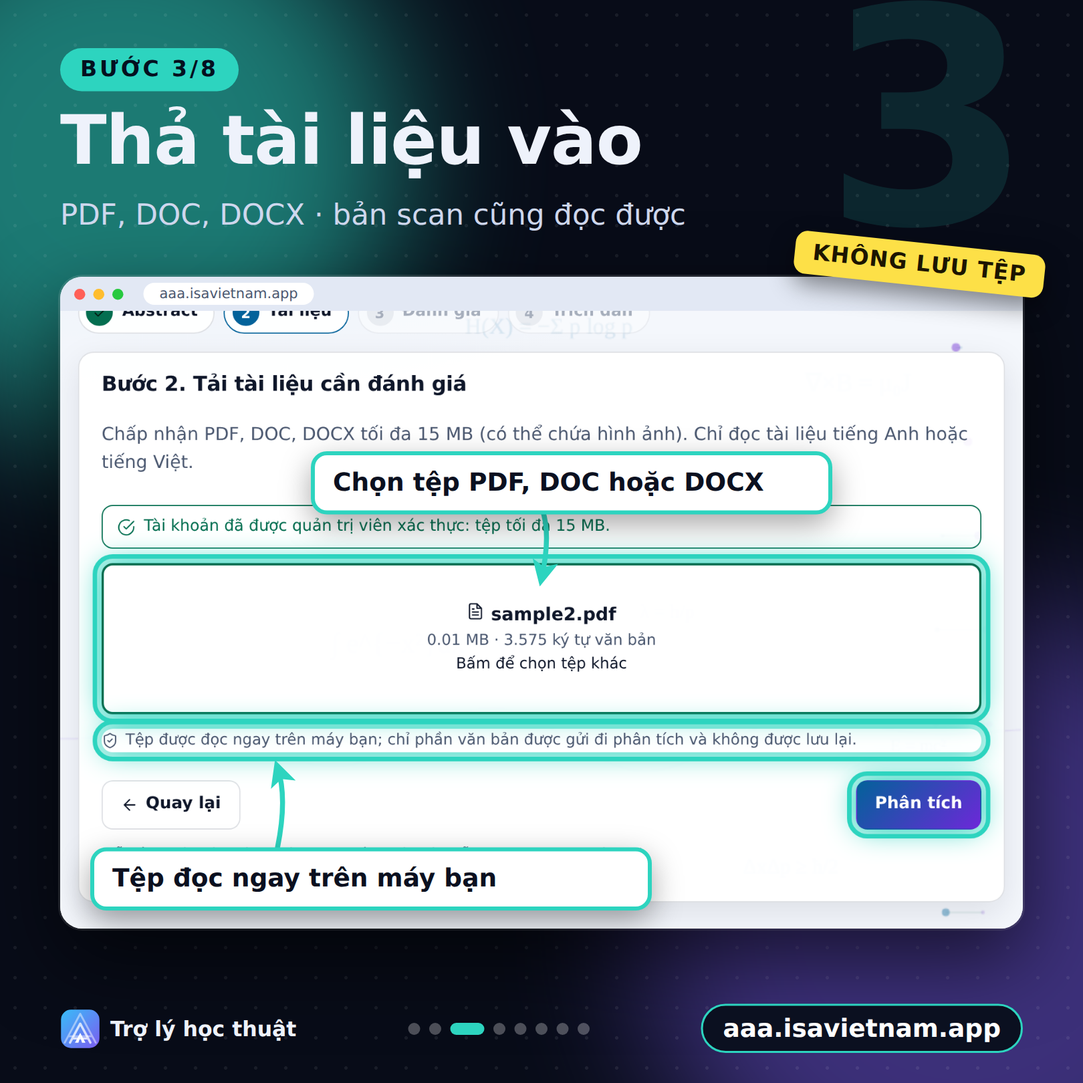
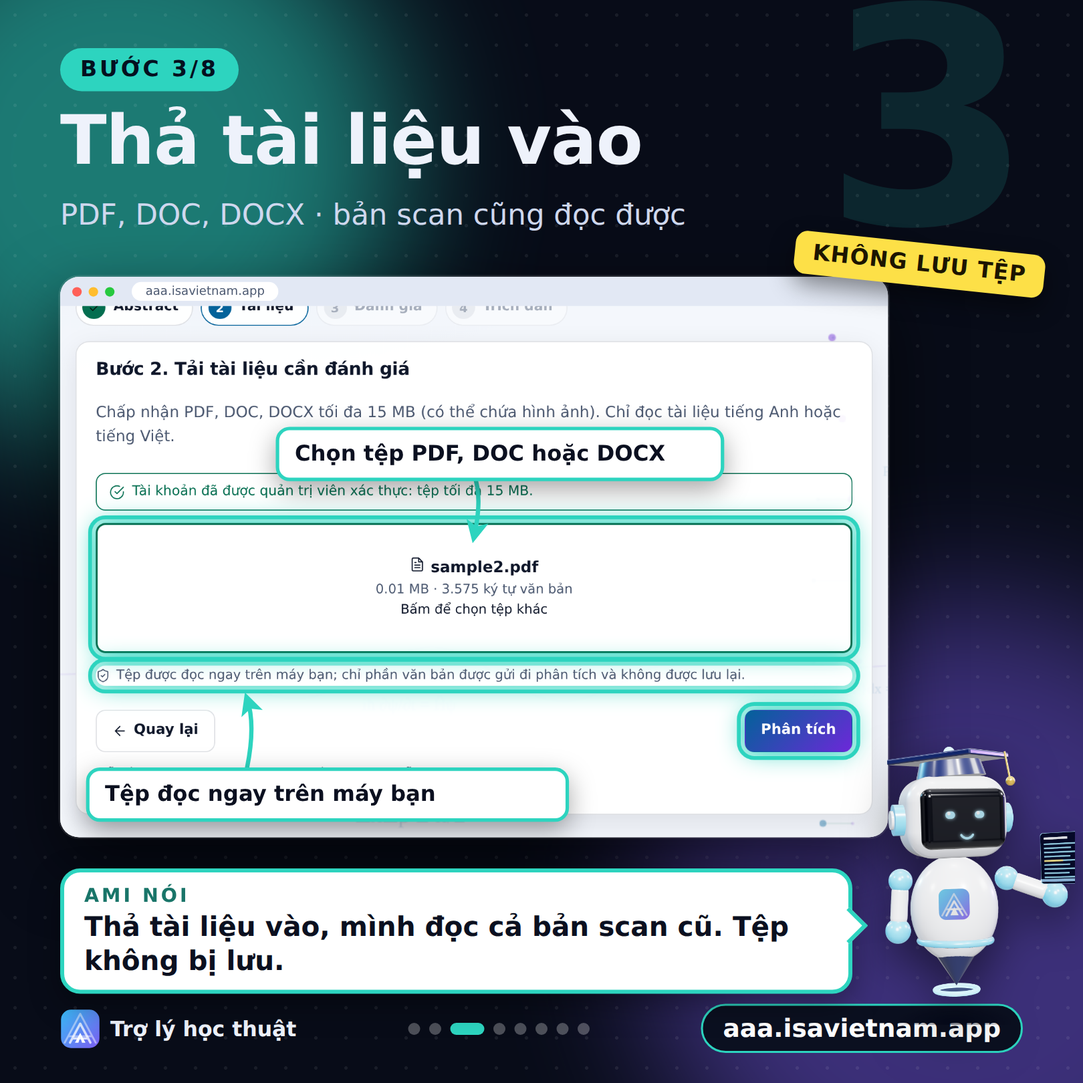
feat(marketing): thumbnail, poster và ảnh social lấy Ami làm nhân vật chính
Xuất Ami 3D nền trong suốt (marketing/ami), dựng lại og.png, poster 3:4,
ảnh bìa vuông và 8 ảnh bước có Ami giải thích; cập nhật nội dung đăng bài.

Claude-Session: https://claude.ai/code/session_018UGHGRMCUBmSM7gYWsNA2j

diff --git a/marketing/poster.html b/marketing/poster.html
@@ -1,25 +1,33 @@
 <!doctype html><meta charset=utf-8><style>*{box-sizing:border-box;margin:0}body{font-family:'DejaVu Sans','Segoe UI',Arial,sans-serif;color:#e8ecf8;background:#080c18}
 .grad{background:linear-gradient(90deg,#38bdf8,#8b7cf6);-webkit-background-clip:text;background-clip:text;color:transparent}
+.bub{position:absolute;background:#fff;color:#0b1020;font-weight:800;border-radius:22px;box-shadow:0 14px 36px rgba(0,0,0,.4);border:4px solid #38bdf8}
+.bub::after{content:"";position:absolute;width:22px;height:22px;background:#fff;border:4px solid #38bdf8;border-width:0 0 4px 4px;transform:rotate(45deg)}
+.halo{position:absolute;border-radius:50%;background:radial-gradient(closest-side,#38bdf855,#7c5cf033 62%,transparent)}
+.ami{position:absolute;display:block;filter:drop-shadow(0 24px 30px rgba(0,0,0,.45))}
+
 body{width:900px;height:1200px;position:relative;overflow:hidden;background:radial-gradient(900px 600px at 10% 0%,#1a2a5e,#0c1330 50%,#070b16)}
-.glow{position:absolute;right:-160px;top:380px;width:520px;height:520px;border-radius:50%;background:radial-gradient(#7c5cf055,transparent 70%)}
-.top{position:absolute;left:64px;right:64px;top:60px;display:flex;align-items:center;gap:20px}.top svg{width:84px;height:84px}
-.top small{font-size:19px;letter-spacing:.18em;color:#38bdf8;font-weight:700}
+.top{position:absolute;left:64px;right:64px;top:52px;display:flex;align-items:center;gap:18px}.top svg{width:64px;height:64px}
+.top small{font-size:18px;letter-spacing:.18em;color:#38bdf8;font-weight:700}
 .badge{margin-left:auto;font-size:18px;padding:8px 16px;border:1px solid #3b4c86;border-radius:99px;color:#cdd6f0}
-h1{position:absolute;left:64px;top:190px;width:772px;font-size:78px;line-height:1.08;font-weight:700}
-h2{position:absolute;left:64px;top:290px;font-size:44px;font-weight:700}
-.lead{position:absolute;left:64px;top:362px;width:772px;font-size:27px;line-height:1.45;color:#b4bedb}.lead i{display:block;color:#8392bb;font-size:22px;margin-top:8px}
-.cards{position:absolute;left:64px;right:64px;top:540px;display:grid;grid-template-columns:1fr 1fr;gap:16px}
-.card{display:flex;gap:14px;align-items:flex-start;padding:16px 18px;border:1px solid #27366a;border-radius:18px;background:linear-gradient(160deg,#121c40,#0e1630)}
-.card div{display:flex;flex-direction:column;gap:3px}.card b{font-size:21px;line-height:1.25}.card span{font-size:17px;color:#a9b4d0}.card i{font-size:15px;color:#7f8fb8;font-style:normal}
-.cta{position:absolute;left:64px;right:64px;bottom:152px;display:flex;align-items:center;gap:30px;padding:22px 28px;border-radius:24px;background:linear-gradient(100deg,#163d6e,#4a3cb8)}
-.qr{width:176px;height:176px;padding:12px;background:#fff;border-radius:16px;flex:none}.qr svg{width:100%;height:100%;display:block}
-.cta h3{font-size:32px;line-height:1.2;margin-bottom:8px}.cta p{font-size:20px;color:#d6defa;line-height:1.4}.cta b{display:inline-block;margin-top:14px;font-size:28px;color:#fff;padding:8px 18px;border-radius:12px;background:#0b1020}
-.eco{position:absolute;left:64px;right:64px;bottom:50px;border-top:1px solid #27366a;padding-top:20px;font-size:18px;color:#a9b4d0;line-height:1.7}
+.kick{position:absolute;left:420px;top:176px;font-size:20px;letter-spacing:.2em;font-weight:800;color:#fde047}
+h1{position:absolute;left:420px;top:212px;font-size:64px;line-height:1.08;font-weight:700}
+h2{position:absolute;left:420px;top:350px;font-size:30px;font-weight:700}
+.en{position:absolute;left:64px;right:64px;top:582px;text-align:center;font-size:21px;font-style:italic;color:#9fb0d6}
+.cards{position:absolute;left:64px;right:64px;top:630px;display:grid;grid-template-columns:1fr 1fr;gap:14px}
+.card{display:flex;gap:14px;align-items:flex-start;padding:12px 16px;border:1px solid #27366a;border-radius:18px;background:linear-gradient(160deg,#121c40,#0e1630)}
+.card div{display:flex;flex-direction:column;gap:2px}.card b{font-size:21px;line-height:1.25}.card span{font-size:17px;color:#a9b4d0}.card i{font-size:15px;color:#8d9cc4;font-style:normal}
+.cta{position:absolute;left:64px;right:64px;bottom:128px;display:flex;align-items:center;gap:28px;padding:18px 26px;border-radius:24px;background:linear-gradient(100deg,#163d6e,#4a3cb8)}
+.qr{width:168px;height:168px;padding:12px;background:#fff;border-radius:16px;flex:none}.qr svg{width:100%;height:100%;display:block}
+.cta h3{font-size:31px;line-height:1.2;margin-bottom:6px}.cta p{font-size:19px;color:#d6defa;line-height:1.4}.cta b{display:inline-block;margin-top:10px;font-size:27px;color:#fff;padding:7px 18px;border-radius:12px;background:#0b1020}
+.eco{position:absolute;left:64px;right:64px;bottom:40px;border-top:1px solid #27366a;padding-top:14px;font-size:17px;color:#a9b4d0;line-height:1.7}
 .eco b{color:#e8ecf8}.eco em{color:#38bdf8;font-style:normal}</style>
-<div class=glow></div>
+<div class=halo style="left:-20px;top:100px;width:470px;height:520px"></div>
 <div class=top><svg xmlns="http://www.w3.org/2000/svg" viewBox="0 0 48 48"><defs><linearGradient id="g" x1="0" y1="0" x2="1" y2="1"><stop offset="0" stop-color="#38bdf8"/><stop offset="1" stop-color="#7c5cf0"/></linearGradient></defs><rect x="1" y="1" width="46" height="46" rx="12" fill="url(#g)"/><path d="M5.5 40.5L24 6L42.5 40.5M9.57 32.91L38.43 32.91" fill="none" stroke="#fff" stroke-opacity="0.45" stroke-width="2.3" stroke-linecap="round" stroke-linejoin="round"/><path d="M11.79 40.5L24 17.73L36.21 40.5M14.48 35.49L33.52 35.49" fill="none" stroke="#fff" stroke-opacity="0.75" stroke-width="2.7" stroke-linecap="round" stroke-linejoin="round"/><path fill-rule="evenodd" fill="#fff" d="M17.71 40.5L24 28.77L30.29 40.5ZM21.86 40.5L24 33.7L26.14 40.5Z"/></svg><div><small>VIỆT / ENGLISH</small></div><span class=badge>Miễn phí 1 lượt/ngày · 1 free run/day</span></div>
-<h1>Trợ lý học thuật</h1><h2 class=grad>AI Academic Agent 1.0</h2>
-<p class=lead>Trợ lý học thuật AI đầu tiên tại Việt Nam giúp đọc tài liệu, đánh giá mức độ phù hợp và trích dẫn theo chuẩn nghiên cứu quốc tế.<i>Read, score and cite scholarly sources to international standards.</i></p>
+<img class=ami src="ami/ami-wave.png" style="left:20px;top:112px;width:384px;height:480px">
+<div class=kick>GẶP AMI · MEET AMI</div>
+<h1>Trợ lý<br>học thuật</h1><h2 class=grad>AI Academic Agent 1.0</h2>
+<div class=bub style="left:424px;top:412px;width:412px;padding:14px 18px;font-size:23px;line-height:1.3">Chào bạn! Mình là <span style="color:#1e6fa8">Ami</span>. Mình đọc tài liệu, chấm điểm và trích dẫn thật chuẩn giúp bạn.<style>.bub::after{left:-15px;top:62px;transform:rotate(45deg)}</style></div>
+<div class=en>Hi, I'm Ami! I read, score and cite scholarly sources for you.</div>
 <div class=cards><div class=card><svg viewBox="0 0 24 24" width="38" height="38" fill="none" stroke="#38bdf8" stroke-width="1.8" stroke-linecap="round" stroke-linejoin="round"><path d="M14 2H6a2 2 0 0 0-2 2v16a2 2 0 0 0 2 2h12a2 2 0 0 0 2-2V8z M14 2v6h6 M16 13H8 M16 17H8 M10 9H8"/></svg><div><b>Đọc PDF · DOC · DOCX</b><span>Cả bản scan nhờ OCR</span><i>Reads PDF, DOC, DOCX and scans</i></div></div><div class=card><svg viewBox="0 0 24 24" width="38" height="38" fill="none" stroke="#38bdf8" stroke-width="1.8" stroke-linecap="round" stroke-linejoin="round"><path d="M12 3a9 9 0 1 0 9 9 M12 12l5-5"/></svg><div><b>Chấm điểm 0–100</b><span>Với tóm tắt đề tài của bạn</span><i>Fit score against your abstract</i></div></div><div class=card><svg viewBox="0 0 24 24" width="38" height="38" fill="none" stroke="#38bdf8" stroke-width="1.8" stroke-linecap="round" stroke-linejoin="round"><path d="M3 21c3 0 7-1 7-8V5c0-1-1-2-2-2H4c-1 0-2 1-2 2v6c0 1 1 2 2 2h4c0 4-1 5-5 5z M15 21c3 0 7-1 7-8V5c0-1-1-2-2-2h-4c-1 0-2 1-2 2v6c0 1 1 2 2 2h4c0 4-1 5-5 5z"/></svg><div><b>Gợi ý đoạn đáng trích</b><span>Kèm trích dẫn đúng chuẩn</span><i>Citable passages, ready to cite</i></div></div><div class=card><svg viewBox="0 0 24 24" width="38" height="38" fill="none" stroke="#38bdf8" stroke-width="1.8" stroke-linecap="round" stroke-linejoin="round"><path d="M12 3a9 9 0 1 0 0 18 9 9 0 0 0 0-18z M3 12h18 M12 3c3 3 3 15 0 18 M12 3c-3 3-3 15 0 18"/></svg><div><b>10.000+ kiểu trích dẫn</b><span>APA · Harvard · IEEE · CSL</span><i>10,000+ citation styles</i></div></div></div>
 <div class=cta><div class=qr><svg xmlns="http://www.w3.org/2000/svg" viewBox="0 0 29 29" shape-rendering="crispEdges"><path d="M0 0h1v1h-1zM1 0h1v1h-1zM2 0h1v1h-1zM3 0h1v1h-1zM4 0h1v1h-1zM5 0h1v1h-1zM6 0h1v1h-1zM9 0h1v1h-1zM10 0h1v1h-1zM11 0h1v1h-1zM12 0h1v1h-1zM15 0h1v1h-1zM16 0h1v1h-1zM17 0h1v1h-1zM18 0h1v1h-1zM19 0h1v1h-1zM22 0h1v1h-1zM23 0h1v1h-1zM24 0h1v1h-1zM25 0h1v1h-1zM26 0h1v1h-1zM27 0h1v1h-1zM28 0h1v1h-1zM0 1h1v1h-1zM6 1h1v1h-1zM9 1h1v1h-1zM10 1h1v1h-1zM11 1h1v1h-1zM17 1h1v1h-1zM20 1h1v1h-1zM22 1h1v1h-1zM28 1h1v1h-1zM0 2h1v1h-1zM2 2h1v1h-1zM3 2h1v1h-1zM4 2h1v1h-1zM6 2h1v1h-1zM8 2h1v1h-1zM14 2h1v1h-1zM16 2h1v1h-1zM18 2h1v1h-1zM20 2h1v1h-1zM22 2h1v1h-1zM24 2h1v1h-1zM25 2h1v1h-1zM26 2h1v1h-1zM28 2h1v1h-1zM0 3h1v1h-1zM2 3h1v1h-1zM3 3h1v1h-1zM4 3h1v1h-1zM6 3h1v1h-1zM8 3h1v1h-1zM9 3h1v1h-1zM10 3h1v1h-1zM12 3h1v1h-1zM16 3h1v1h-1zM17 3h1v1h-1zM19 3h1v1h-1zM22 3h1v1h-1zM24 3h1v1h-1zM25 3h1v1h-1zM26 3h1v1h-1zM28 3h1v1h-1zM0 4h1v1h-1zM2 4h1v1h-1zM3 4h1v1h-1zM4 4h1v1h-1zM6 4h1v1h-1zM8 4h1v1h-1zM9 4h1v1h-1zM13 4h1v1h-1zM14 4h1v1h-1zM15 4h1v1h-1zM18 4h1v1h-1zM19 4h1v1h-1zM20 4h1v1h-1zM22 4h1v1h-1zM24 4h1v1h-1zM25 4h1v1h-1zM26 4h1v1h-1zM28 4h1v1h-1zM0 5h1v1h-1zM6 5h1v1h-1zM8 5h1v1h-1zM10 5h1v1h-1zM11 5h1v1h-1zM13 5h1v1h-1zM14 5h1v1h-1zM15 5h1v1h-1zM16 5h1v1h-1zM18 5h1v1h-1zM20 5h1v1h-1zM22 5h1v1h-1zM28 5h1v1h-1zM0 6h1v1h-1zM1 6h1v1h-1zM2 6h1v1h-1zM3 6h1v1h-1zM4 6h1v1h-1zM5 6h1v1h-1zM6 6h1v1h-1zM8 6h1v1h-1zM10 6h1v1h-1zM12 6h1v1h-1zM14 6h1v1h-1zM16 6h1v1h-1zM18 6h1v1h-1zM20 6h1v1h-1zM22 6h1v1h-1zM23 6h1v1h-1zM24 6h1v1h-1zM25 6h1v1h-1zM26 6h1v1h-1zM27 6h1v1h-1zM28 6h1v1h-1zM8 7h1v1h-1zM11 7h1v1h-1zM13 7h1v1h-1zM15 7h1v1h-1zM0 8h1v1h-1zM2 8h1v1h-1zM3 8h1v1h-1zM4 8h1v1h-1zM5 8h1v1h-1zM6 8h1v1h-1zM9 8h1v1h-1zM14 8h1v1h-1zM15 8h1v1h-1zM17 8h1v1h-1zM22 8h1v1h-1zM23 8h1v1h-1zM24 8h1v1h-1zM25 8h1v1h-1zM26 8h1v1h-1zM7 9h1v1h-1zM8 9h1v1h-1zM9 9h1v1h-1zM10 9h1v1h-1zM15 9h1v1h-1zM16 9h1v1h-1zM19 9h1v1h-1zM20 9h1v1h-1zM21 9h1v1h-1zM22 9h1v1h-1zM23 9h1v1h-1zM24 9h1v1h-1zM28 9h1v1h-1zM0 10h1v1h-1zM1 10h1v1h-1zM2 10h1v1h-1zM3 10h1v1h-1zM4 10h1v1h-1zM6 10h1v1h-1zM18 10h1v1h-1zM21 10h1v1h-1zM22 10h1v1h-1zM1 11h1v1h-1zM3 11h1v1h-1zM4 11h1v1h-1zM9 11h1v1h-1zM14 11h1v1h-1zM16 11h1v1h-1zM18 11h1v1h-1zM19 11h1v1h-1zM20 11h1v1h-1zM23 11h1v1h-1zM25 11h1v1h-1zM27 11h1v1h-1zM0 12h1v1h-1zM1 12h1v1h-1zM3 12h1v1h-1zM5 12h1v1h-1zM6 12h1v1h-1zM8 12h1v1h-1zM12 12h1v1h-1zM16 12h1v1h-1zM17 12h1v1h-1zM19 12h1v1h-1zM25 12h1v1h-1zM26 12h1v1h-1zM0 13h1v1h-1zM2 13h1v1h-1zM3 13h1v1h-1zM5 13h1v1h-1zM7 13h1v1h-1zM8 13h1v1h-1zM10 13h1v1h-1zM11 13h1v1h-1zM12 13h1v1h-1zM13 13h1v1h-1zM14 13h1v1h-1zM15 13h1v1h-1zM19 13h1v1h-1zM20 13h1v1h-1zM22 13h1v1h-1zM24 13h1v1h-1zM28 13h1v1h-1zM0 14h1v1h-1zM3 14h1v1h-1zM6 14h1v1h-1zM7 14h1v1h-1zM8 14h1v1h-1zM12 14h1v1h-1zM13 14h1v1h-1zM14 14h1v1h-1zM15 14h1v1h-1zM16 14h1v1h-1zM18 14h1v1h-1zM21 14h1v1h-1zM23 14h1v1h-1zM24 14h1v1h-1zM25 14h1v1h-1zM26 14h1v1h-1zM1 15h1v1h-1zM2 15h1v1h-1zM4 15h1v1h-1zM5 15h1v1h-1zM10 15h1v1h-1zM13 15h1v1h-1zM15 15h1v1h-1zM18 15h1v1h-1zM20 15h1v1h-1zM22 15h1v1h-1zM24 15h1v1h-1zM27 15h1v1h-1zM1 16h1v1h-1zM5 16h1v1h-1zM6 16h1v1h-1zM11 16h1v1h-1zM14 16h1v1h-1zM15 16h1v1h-1zM17 16h1v1h-1zM18 16h1v1h-1zM20 16h1v1h-1zM25 16h1v1h-1zM26 16h1v1h-1zM0 17h1v1h-1zM1 17h1v1h-1zM3 17h1v1h-1zM5 17h1v1h-1zM8 17h1v1h-1zM11 17h1v1h-1zM15 17h1v1h-1zM16 17h1v1h-1zM17 17h1v1h-1zM18 17h1v1h-1zM19 17h1v1h-1zM20 17h1v1h-1zM21 17h1v1h-1zM22 17h1v1h-1zM23 17h1v1h-1zM24 17h1v1h-1zM26 17h1v1h-1zM28 17h1v1h-1zM0 18h1v1h-1zM2 18h1v1h-1zM3 18h1v1h-1zM6 18h1v1h-1zM7 18h1v1h-1zM8 18h1v1h-1zM9 18h1v1h-1zM11 18h1v1h-1zM17 18h1v1h-1zM20 18h1v1h-1zM21 18h1v1h-1zM23 18h1v1h-1zM24 18h1v1h-1zM26 18h1v1h-1zM0 19h1v1h-1zM2 19h1v1h-1zM4 19h1v1h-1zM5 19h1v1h-1zM8 19h1v1h-1zM9 19h1v1h-1zM10 19h1v1h-1zM11 19h1v1h-1zM12 19h1v1h-1zM14 19h1v1h-1zM16 19h1v1h-1zM20 19h1v1h-1zM24 19h1v1h-1zM27 19h1v1h-1zM0 20h1v1h-1zM2 20h1v1h-1zM4 20h1v1h-1zM5 20h1v1h-1zM6 20h1v1h-1zM7 20h1v1h-1zM9 20h1v1h-1zM16 20h1v1h-1zM18 20h1v1h-1zM20 20h1v1h-1zM21 20h1v1h-1zM22 20h1v1h-1zM23 20h1v1h-1zM24 20h1v1h-1zM26 20h1v1h-1zM27 20h1v1h-1zM28 20h1v1h-1zM8 21h1v1h-1zM10 21h1v1h-1zM11 21h1v1h-1zM13 21h1v1h-1zM14 21h1v1h-1zM15 21h1v1h-1zM17 21h1v1h-1zM18 21h1v1h-1zM20 21h1v1h-1zM24 21h1v1h-1zM25 21h1v1h-1zM26 21h1v1h-1zM27 21h1v1h-1zM28 21h1v1h-1zM0 22h1v1h-1zM1 22h1v1h-1zM2 22h1v1h-1zM3 22h1v1h-1zM4 22h1v1h-1zM5 22h1v1h-1zM6 22h1v1h-1zM11 22h1v1h-1zM12 22h1v1h-1zM13 22h1v1h-1zM14 22h1v1h-1zM15 22h1v1h-1zM16 22h1v1h-1zM17 22h1v1h-1zM19 22h1v1h-1zM20 22h1v1h-1zM22 22h1v1h-1zM24 22h1v1h-1zM25 22h1v1h-1zM26 22h1v1h-1zM0 23h1v1h-1zM6 23h1v1h-1zM8 23h1v1h-1zM9 23h1v1h-1zM10 23h1v1h-1zM13 23h1v1h-1zM15 23h1v1h-1zM17 23h1v1h-1zM18 23h1v1h-1zM19 23h1v1h-1zM20 23h1v1h-1zM24 23h1v1h-1zM28 23h1v1h-1zM0 24h1v1h-1zM2 24h1v1h-1zM3 24h1v1h-1zM4 24h1v1h-1zM6 24h1v1h-1zM8 24h1v1h-1zM10 24h1v1h-1zM14 24h1v1h-1zM15 24h1v1h-1zM20 24h1v1h-1zM21 24h1v1h-1zM22 24h1v1h-1zM23 24h1v1h-1zM24 24h1v1h-1zM26 24h1v1h-1zM27 24h1v1h-1zM28 24h1v1h-1zM0 25h1v1h-1zM2 25h1v1h-1zM3 25h1v1h-1zM4 25h1v1h-1zM6 25h1v1h-1zM8 25h1v1h-1zM10 25h1v1h-1zM11 25h1v1h-1zM13 25h1v1h-1zM15 25h1v1h-1zM16 25h1v1h-1zM18 25h1v1h-1zM19 25h1v1h-1zM25 25h1v1h-1zM26 25h1v1h-1zM0 26h1v1h-1zM2 26h1v1h-1zM3 26h1v1h-1zM4 26h1v1h-1zM6 26h1v1h-1zM8 26h1v1h-1zM9 26h1v1h-1zM10 26h1v1h-1zM12 26h1v1h-1zM18 26h1v1h-1zM20 26h1v1h-1zM22 26h1v1h-1zM23 26h1v1h-1zM24 26h1v1h-1zM25 26h1v1h-1zM26 26h1v1h-1zM27 26h1v1h-1zM0 27h1v1h-1zM6 27h1v1h-1zM10 27h1v1h-1zM13 27h1v1h-1zM14 27h1v1h-1zM16 27h1v1h-1zM20 27h1v1h-1zM23 27h1v1h-1zM24 27h1v1h-1zM25 27h1v1h-1zM27 27h1v1h-1zM0 28h1v1h-1zM1 28h1v1h-1zM2 28h1v1h-1zM3 28h1v1h-1zM4 28h1v1h-1zM5 28h1v1h-1zM6 28h1v1h-1zM8 28h1v1h-1zM9 28h1v1h-1zM11 28h1v1h-1zM14 28h1v1h-1zM16 28h1v1h-1zM18 28h1v1h-1zM19 28h1v1h-1zM21 28h1v1h-1zM22 28h1v1h-1zM24 28h1v1h-1zM26 28h1v1h-1z" fill="#0b1020"/></svg></div><div><h3>Quét mã để dùng ngay<br><span class=grad>Scan to try it</span></h3><p>Tài liệu của bạn không bị lưu trữ.<br>Your documents are never stored.</p><b>aaa.isavietnam.app</b></div></div>
 <div class=eco><b>Hệ sinh thái ISA Vietnam · Ecosystem:</b><br><em>EduFind</em> edufind.isavn.edu.vn &nbsp;·&nbsp; <em>Trợ lý văn thư</em> trolyvanthu.isavn.edu.vn</div>

diff --git a/marketing/social-cover.html b/marketing/social-cover.html
@@ -1,0 +1,29 @@
+<!doctype html><meta charset=utf-8><style>*{box-sizing:border-box;margin:0}
+body{width:1080px;height:1080px;position:relative;overflow:hidden;font-family:'DejaVu Sans','Segoe UI',Arial,sans-serif;color:#eef2fb;background:#080c18}
+.blob{position:absolute;border-radius:50%;filter:blur(80px)}.dots{position:absolute;inset:0;background-image:radial-gradient(rgba(255,255,255,.07) 1.5px,transparent 1.5px);background-size:30px 30px}
+.pill{position:absolute;left:50%;transform:translateX(-50%);top:36px;white-space:nowrap;font-weight:800;font-size:20px;letter-spacing:.12em;padding:8px 22px;border-radius:99px;color:#7dd3fc;border:2px solid #38bdf8;background:#0b1a38}
+.ring{position:absolute;left:50%;border-radius:50%;border:1.5px solid rgba(125,211,252,.22);transform:translate(-50%,-50%)}
+.ami{position:absolute;left:50%;top:86px;width:352px;height:440px;margin-left:-176px;filter:drop-shadow(0 26px 34px rgba(0,0,0,.5))}
+.bub{position:absolute;background:#fff;color:#0b1020;font-weight:800;border-radius:22px;border:4px solid #38bdf8;box-shadow:0 14px 36px rgba(0,0,0,.4);font-size:27px;line-height:1.25;padding:14px 20px}
+.bub::after{content:"";position:absolute;width:22px;height:22px;background:#fff;border:4px solid #38bdf8}
+.chip{position:absolute;font-weight:800;font-size:22px;padding:9px 18px;border-radius:99px;background:#0e1a3d;border:2px solid #2b3a66;color:#cdd6f0}
+.sticker{position:absolute;right:46px;top:112px;transform:rotate(7deg);background:#fde047;color:#1c1500;font-weight:900;font-size:25px;line-height:1.2;padding:11px 20px;border-radius:14px;box-shadow:0 10px 24px rgba(0,0,0,.45);text-align:center}
+h1{position:absolute;left:0;right:0;top:528px;text-align:center;font-size:80px;line-height:1.05;font-weight:800;letter-spacing:-.01em}
+h2{position:absolute;left:0;right:0;top:620px;text-align:center;font-size:42px;font-weight:800;background:linear-gradient(90deg,#38bdf8,#8b7cf6);-webkit-background-clip:text;background-clip:text;color:transparent}
+.tag{position:absolute;left:60px;right:60px;top:684px;text-align:center;font-size:25px;line-height:1.35;color:#cfd8ee}
+.chips{position:absolute;left:0;right:0;top:760px;display:flex;justify-content:center;gap:12px}.chips span{font-weight:800;font-size:20px;padding:8px 16px;border-radius:99px;background:#101a38;border:1px solid #2b3a66;color:#dbe4fb}
+.card{position:absolute;left:44px;right:44px;bottom:34px;height:220px;border-radius:24px;background:#10193a;border:1.5px solid #2a3a73;display:flex;align-items:center;padding:0 26px;gap:22px}
+.card img{width:128px;height:128px;border-radius:50%;border:5px solid #38bdf8;object-fit:cover;flex:none}
+.card .t{flex:1}.card small{font-weight:800;letter-spacing:.16em;color:#7dd3fc;font-size:16px}.card b{display:block;font-size:34px;line-height:1.15;margin:2px 0 6px}.card p{font-size:17px;line-height:1.35;color:#c3cde6}.card em{display:block;margin-top:6px;font-style:normal;font-weight:800;font-size:16px;color:#7dd3fc}
+.qr{text-align:center;flex:none;width:220px}.qr div{width:132px;height:132px;margin:0 auto;padding:8px;background:#fff;border-radius:14px;box-shadow:0 0 0 4px #38bdf8}.qr svg{width:100%;height:100%;display:block}.qr span{display:block;margin-top:9px;font-weight:800;font-size:16px;white-space:nowrap;color:#7dd3fc}</style>
+<div class=blob style="left:-180px;top:-140px;width:620px;height:620px;background:#1d6fa8;opacity:.55"></div><div class=blob style="right:-220px;bottom:-120px;width:700px;height:700px;background:#6d4cf0;opacity:.45"></div><div class=dots></div>
+<div class=ring style="top:300px;width:520px;height:520px"></div><div class=ring style="top:300px;width:760px;height:760px"></div><div class=ring style="top:300px;width:1000px;height:1000px"></div>
+<div class=pill>DÀNH CHO NHÀ NGHIÊN CỨU · GIẢNG VIÊN · NGHIÊN CỨU SINH</div>
+<img class=ami src="ami/ami-celebrate.png">
+<div class=bub style="left:48px;top:150px;width:310px">Chào bạn! Mình là <span style="color:#1e6fa8">Ami</span>, trợ lý học thuật của bạn.<style>.bub::after{right:-14px;top:60px;border-width:4px 4px 0 0;transform:rotate(45deg)}</style></div>
+<div class=chip style="left:60px;top:362px">APA</div><div class=chip style="left:150px;top:420px">DOI</div><div class=chip style="right:70px;top:392px">0–100</div><div class=chip style="right:150px;top:450px">“ ”</div>
+<div class=sticker>MIỄN PHÍ<br>1 lượt/ngày</div>
+<h1>Trợ lý học thuật</h1><h2>AI Academic Agent 1.0</h2>
+<div class=tag>Ami đọc tài liệu, chấm điểm phù hợp với đề tài, chọn đoạn đáng trích và tạo trích dẫn chuẩn quốc tế.</div>
+<div class=chips><span>Điểm phù hợp 0–100</span><span>Đoạn trích có số trang</span><span>APA · Harvard · IEEE</span></div>
+<div class=card><img src="../public/author.jpg"><div class=t><small>TÁC GIẢ</small><b>Lương Việt Hoàng</b><p>Phó Viện trưởng, Viện Khoa học Giáo dục và Kinh tế Đông Nam Á (ISA Vietnam)</p><em>ORCID 0009-0000-5248-6186</em></div><div class=qr><div><svg xmlns="http://www.w3.org/2000/svg" viewBox="0 0 29 29" shape-rendering="crispEdges"><path d="M0 0h1v1h-1zM1 0h1v1h-1zM2 0h1v1h-1zM3 0h1v1h-1zM4 0h1v1h-1zM5 0h1v1h-1zM6 0h1v1h-1zM9 0h1v1h-1zM10 0h1v1h-1zM11 0h1v1h-1zM12 0h1v1h-1zM15 0h1v1h-1zM16 0h1v1h-1zM17 0h1v1h-1zM18 0h1v1h-1zM19 0h1v1h-1zM22 0h1v1h-1zM23 0h1v1h-1zM24 0h1v1h-1zM25 0h1v1h-1zM26 0h1v1h-1zM27 0h1v1h-1zM28 0h1v1h-1zM0 1h1v1h-1zM6 1h1v1h-1zM9 1h1v1h-1zM10 1h1v1h-1zM11 1h1v1h-1zM17 1h1v1h-1zM20 1h1v1h-1zM22 1h1v1h-1zM28 1h1v1h-1zM0 2h1v1h-1zM2 2h1v1h-1zM3 2h1v1h-1zM4 2h1v1h-1zM6 2h1v1h-1zM8 2h1v1h-1zM14 2h1v1h-1zM16 2h1v1h-1zM18 2h1v1h-1zM20 2h1v1h-1zM22 2h1v1h-1zM24 2h1v1h-1zM25 2h1v1h-1zM26 2h1v1h-1zM28 2h1v1h-1zM0 3h1v1h-1zM2 3h1v1h-1zM3 3h1v1h-1zM4 3h1v1h-1zM6 3h1v1h-1zM8 3h1v1h-1zM9 3h1v1h-1zM10 3h1v1h-1zM12 3h1v1h-1zM16 3h1v1h-1zM17 3h1v1h-1zM19 3h1v1h-1zM22 3h1v1h-1zM24 3h1v1h-1zM25 3h1v1h-1zM26 3h1v1h-1zM28 3h1v1h-1zM0 4h1v1h-1zM2 4h1v1h-1zM3 4h1v1h-1zM4 4h1v1h-1zM6 4h1v1h-1zM8 4h1v1h-1zM9 4h1v1h-1zM13 4h1v1h-1zM14 4h1v1h-1zM15 4h1v1h-1zM18 4h1v1h-1zM19 4h1v1h-1zM20 4h1v1h-1zM22 4h1v1h-1zM24 4h1v1h-1zM25 4h1v1h-1zM26 4h1v1h-1zM28 4h1v1h-1zM0 5h1v1h-1zM6 5h1v1h-1zM8 5h1v1h-1zM10 5h1v1h-1zM11 5h1v1h-1zM13 5h1v1h-1zM14 5h1v1h-1zM15 5h1v1h-1zM16 5h1v1h-1zM18 5h1v1h-1zM20 5h1v1h-1zM22 5h1v1h-1zM28 5h1v1h-1zM0 6h1v1h-1zM1 6h1v1h-1zM2 6h1v1h-1zM3 6h1v1h-1zM4 6h1v1h-1zM5 6h1v1h-1zM6 6h1v1h-1zM8 6h1v1h-1zM10 6h1v1h-1zM12 6h1v1h-1zM14 6h1v1h-1zM16 6h1v1h-1zM18 6h1v1h-1zM20 6h1v1h-1zM22 6h1v1h-1zM23 6h1v1h-1zM24 6h1v1h-1zM25 6h1v1h-1zM26 6h1v1h-1zM27 6h1v1h-1zM28 6h1v1h-1zM8 7h1v1h-1zM11 7h1v1h-1zM13 7h1v1h-1zM15 7h1v1h-1zM0 8h1v1h-1zM2 8h1v1h-1zM3 8h1v1h-1zM4 8h1v1h-1zM5 8h1v1h-1zM6 8h1v1h-1zM9 8h1v1h-1zM14 8h1v1h-1zM15 8h1v1h-1zM17 8h1v1h-1zM22 8h1v1h-1zM23 8h1v1h-1zM24 8h1v1h-1zM25 8h1v1h-1zM26 8h1v1h-1zM7 9h1v1h-1zM8 9h1v1h-1zM9 9h1v1h-1zM10 9h1v1h-1zM15 9h1v1h-1zM16 9h1v1h-1zM19 9h1v1h-1zM20 9h1v1h-1zM21 9h1v1h-1zM22 9h1v1h-1zM23 9h1v1h-1zM24 9h1v1h-1zM28 9h1v1h-1zM0 10h1v1h-1zM1 10h1v1h-1zM2 10h1v1h-1zM3 10h1v1h-1zM4 10h1v1h-1zM6 10h1v1h-1zM18 10h1v1h-1zM21 10h1v1h-1zM22 10h1v1h-1zM1 11h1v1h-1zM3 11h1v1h-1zM4 11h1v1h-1zM9 11h1v1h-1zM14 11h1v1h-1zM16 11h1v1h-1zM18 11h1v1h-1zM19 11h1v1h-1zM20 11h1v1h-1zM23 11h1v1h-1zM25 11h1v1h-1zM27 11h1v1h-1zM0 12h1v1h-1zM1 12h1v1h-1zM3 12h1v1h-1zM5 12h1v1h-1zM6 12h1v1h-1zM8 12h1v1h-1zM12 12h1v1h-1zM16 12h1v1h-1zM17 12h1v1h-1zM19 12h1v1h-1zM25 12h1v1h-1zM26 12h1v1h-1zM0 13h1v1h-1zM2 13h1v1h-1zM3 13h1v1h-1zM5 13h1v1h-1zM7 13h1v1h-1zM8 13h1v1h-1zM10 13h1v1h-1zM11 13h1v1h-1zM12 13h1v1h-1zM13 13h1v1h-1zM14 13h1v1h-1zM15 13h1v1h-1zM19 13h1v1h-1zM20 13h1v1h-1zM22 13h1v1h-1zM24 13h1v1h-1zM28 13h1v1h-1zM0 14h1v1h-1zM3 14h1v1h-1zM6 14h1v1h-1zM7 14h1v1h-1zM8 14h1v1h-1zM12 14h1v1h-1zM13 14h1v1h-1zM14 14h1v1h-1zM15 14h1v1h-1zM16 14h1v1h-1zM18 14h1v1h-1zM21 14h1v1h-1zM23 14h1v1h-1zM24 14h1v1h-1zM25 14h1v1h-1zM26 14h1v1h-1zM1 15h1v1h-1zM2 15h1v1h-1zM4 15h1v1h-1zM5 15h1v1h-1zM10 15h1v1h-1zM13 15h1v1h-1zM15 15h1v1h-1zM18 15h1v1h-1zM20 15h1v1h-1zM22 15h1v1h-1zM24 15h1v1h-1zM27 15h1v1h-1zM1 16h1v1h-1zM5 16h1v1h-1zM6 16h1v1h-1zM11 16h1v1h-1zM14 16h1v1h-1zM15 16h1v1h-1zM17 16h1v1h-1zM18 16h1v1h-1zM20 16h1v1h-1zM25 16h1v1h-1zM26 16h1v1h-1zM0 17h1v1h-1zM1 17h1v1h-1zM3 17h1v1h-1zM5 17h1v1h-1zM8 17h1v1h-1zM11 17h1v1h-1zM15 17h1v1h-1zM16 17h1v1h-1zM17 17h1v1h-1zM18 17h1v1h-1zM19 17h1v1h-1zM20 17h1v1h-1zM21 17h1v1h-1zM22 17h1v1h-1zM23 17h1v1h-1zM24 17h1v1h-1zM26 17h1v1h-1zM28 17h1v1h-1zM0 18h1v1h-1zM2 18h1v1h-1zM3 18h1v1h-1zM6 18h1v1h-1zM7 18h1v1h-1zM8 18h1v1h-1zM9 18h1v1h-1zM11 18h1v1h-1zM17 18h1v1h-1zM20 18h1v1h-1zM21 18h1v1h-1zM23 18h1v1h-1zM24 18h1v1h-1zM26 18h1v1h-1zM0 19h1v1h-1zM2 19h1v1h-1zM4 19h1v1h-1zM5 19h1v1h-1zM8 19h1v1h-1zM9 19h1v1h-1zM10 19h1v1h-1zM11 19h1v1h-1zM12 19h1v1h-1zM14 19h1v1h-1zM16 19h1v1h-1zM20 19h1v1h-1zM24 19h1v1h-1zM27 19h1v1h-1zM0 20h1v1h-1zM2 20h1v1h-1zM4 20h1v1h-1zM5 20h1v1h-1zM6 20h1v1h-1zM7 20h1v1h-1zM9 20h1v1h-1zM16 20h1v1h-1zM18 20h1v1h-1zM20 20h1v1h-1zM21 20h1v1h-1zM22 20h1v1h-1zM23 20h1v1h-1zM24 20h1v1h-1zM26 20h1v1h-1zM27 20h1v1h-1zM28 20h1v1h-1zM8 21h1v1h-1zM10 21h1v1h-1zM11 21h1v1h-1zM13 21h1v1h-1zM14 21h1v1h-1zM15 21h1v1h-1zM17 21h1v1h-1zM18 21h1v1h-1zM20 21h1v1h-1zM24 21h1v1h-1zM25 21h1v1h-1zM26 21h1v1h-1zM27 21h1v1h-1zM28 21h1v1h-1zM0 22h1v1h-1zM1 22h1v1h-1zM2 22h1v1h-1zM3 22h1v1h-1zM4 22h1v1h-1zM5 22h1v1h-1zM6 22h1v1h-1zM11 22h1v1h-1zM12 22h1v1h-1zM13 22h1v1h-1zM14 22h1v1h-1zM15 22h1v1h-1zM16 22h1v1h-1zM17 22h1v1h-1zM19 22h1v1h-1zM20 22h1v1h-1zM22 22h1v1h-1zM24 22h1v1h-1zM25 22h1v1h-1zM26 22h1v1h-1zM0 23h1v1h-1zM6 23h1v1h-1zM8 23h1v1h-1zM9 23h1v1h-1zM10 23h1v1h-1zM13 23h1v1h-1zM15 23h1v1h-1zM17 23h1v1h-1zM18 23h1v1h-1zM19 23h1v1h-1zM20 23h1v1h-1zM24 23h1v1h-1zM28 23h1v1h-1zM0 24h1v1h-1zM2 24h1v1h-1zM3 24h1v1h-1zM4 24h1v1h-1zM6 24h1v1h-1zM8 24h1v1h-1zM10 24h1v1h-1zM14 24h1v1h-1zM15 24h1v1h-1zM20 24h1v1h-1zM21 24h1v1h-1zM22 24h1v1h-1zM23 24h1v1h-1zM24 24h1v1h-1zM26 24h1v1h-1zM27 24h1v1h-1zM28 24h1v1h-1zM0 25h1v1h-1zM2 25h1v1h-1zM3 25h1v1h-1zM4 25h1v1h-1zM6 25h1v1h-1zM8 25h1v1h-1zM10 25h1v1h-1zM11 25h1v1h-1zM13 25h1v1h-1zM15 25h1v1h-1zM16 25h1v1h-1zM18 25h1v1h-1zM19 25h1v1h-1zM25 25h1v1h-1zM26 25h1v1h-1zM0 26h1v1h-1zM2 26h1v1h-1zM3 26h1v1h-1zM4 26h1v1h-1zM6 26h1v1h-1zM8 26h1v1h-1zM9 26h1v1h-1zM10 26h1v1h-1zM12 26h1v1h-1zM18 26h1v1h-1zM20 26h1v1h-1zM22 26h1v1h-1zM23 26h1v1h-1zM24 26h1v1h-1zM25 26h1v1h-1zM26 26h1v1h-1zM27 26h1v1h-1zM0 27h1v1h-1zM6 27h1v1h-1zM10 27h1v1h-1zM13 27h1v1h-1zM14 27h1v1h-1zM16 27h1v1h-1zM20 27h1v1h-1zM23 27h1v1h-1zM24 27h1v1h-1zM25 27h1v1h-1zM27 27h1v1h-1zM0 28h1v1h-1zM1 28h1v1h-1zM2 28h1v1h-1zM3 28h1v1h-1zM4 28h1v1h-1zM5 28h1v1h-1zM6 28h1v1h-1zM8 28h1v1h-1zM9 28h1v1h-1zM11 28h1v1h-1zM14 28h1v1h-1zM16 28h1v1h-1zM18 28h1v1h-1zM19 28h1v1h-1zM21 28h1v1h-1zM22 28h1v1h-1zM24 28h1v1h-1zM26 28h1v1h-1z" fill="#0b1020"/></svg></div><span>Quét mã để trải nghiệm<br><b style="display:inline;font-size:18px;color:#7dd3fc;margin:0">aaa.isavietnam.app</b></span></div></div>

diff --git a/marketing/og.html b/marketing/og.html
@@ -1,17 +1,24 @@
 <!doctype html><meta charset=utf-8><style>*{box-sizing:border-box;margin:0}body{font-family:'DejaVu Sans','Segoe UI',Arial,sans-serif;color:#e8ecf8;background:#080c18}
 .grad{background:linear-gradient(90deg,#38bdf8,#8b7cf6);-webkit-background-clip:text;background-clip:text;color:transparent}
-body{width:1200px;height:630px;position:relative;overflow:hidden;background:radial-gradient(900px 500px at 15% 0%,#16224a,#0b1226 55%,#080c18)}
-.logo{position:absolute;left:80px;top:62px;width:92px;height:92px}.logo svg{width:100%;height:100%}
-.k{position:absolute;left:80px;top:182px;font-size:22px;letter-spacing:.2em;font-weight:700;color:#38bdf8}
-h1{position:absolute;left:80px;top:222px;font-size:84px;line-height:1.1;font-weight:700}
-h2{position:absolute;left:80px;top:326px;font-size:48px;font-weight:700}
-.d{position:absolute;left:80px;top:410px;width:760px;font-size:27px;line-height:1.45;color:#a9b4d0}
-.eco{position:absolute;left:80px;bottom:48px;display:flex;gap:14px;font-size:20px}
-.eco span{padding:9px 18px;border:1px solid #2b3a66;border-radius:99px;background:#101a38;color:#cdd6f0}.eco span.on{background:linear-gradient(90deg,#1e6fa8,#5b46c9);border-color:transparent;color:#fff;font-weight:700}
-.url{position:absolute;right:70px;bottom:50px;font-size:24px;color:#38bdf8;font-weight:700}
-.dna{position:absolute;right:0;top:0}</style>
-<svg class=dna width=1200 height=630 viewBox="0 0 1200 630"><circle cx="1130.0" cy="10" r="5" fill="#7c5cf0" opacity=".55"/><circle cx="1143.1716190386069" cy="36" r="5" fill="#38bdf8" opacity=".55"/><circle cx="1106.3316361146722" cy="62" r="5" fill="#7c5cf0" opacity=".55"/><circle cx="1159.3585701026316" cy="88" r="5" fill="#38bdf8" opacity=".55"/><circle cx="1100.9133215245304" cy="114" r="5" fill="#7c5cf0" opacity=".55"/><circle cx="1152.9079043797462" cy="140" r="5" fill="#38bdf8" opacity=".55"/><circle cx="1117.9229752799151" cy="166" r="5" fill="#7c5cf0" opacity=".55"/><circle cx="1128.7935595700721" cy="192" r="5" fill="#38bdf8" opacity=".55"/><circle cx="1144.2449033246671" cy="218" r="5" fill="#7c5cf0" opacity=".55"/><circle cx="1105.609469062071" cy="244" r="5" fill="#38bdf8" opacity=".55"/><circle cx="1159.582963234728" cy="270" r="5" fill="#7c5cf0" opacity=".55"/><circle cx="1101.232271760106" cy="296" r="5" fill="#38bdf8" opacity=".55"/><circle cx="1152.1103827495674" cy="322" r="5" fill="#7c5cf0" opacity=".55"/><circle cx="1119.037108714173" cy="348" r="5" fill="#38bdf8" opacity=".55"/><circle cx="1127.5890710098915" cy="374" r="5" fill="#7c5cf0" opacity=".55"/><circle cx="1145.295141138508" cy="400" r="5" fill="#38bdf8" opacity=".55"/><circle cx="1104.9267628384323" cy="426" r="5" fill="#7c5cf0" opacity=".55"/><circle cx="1159.7594948317317" cy="452" r="5" fill="#38bdf8" opacity=".55"/></svg>
+.bub{position:absolute;background:#fff;color:#0b1020;font-weight:800;border-radius:22px;box-shadow:0 14px 36px rgba(0,0,0,.4);border:4px solid #38bdf8}
+.bub::after{content:"";position:absolute;width:22px;height:22px;background:#fff;border:4px solid #38bdf8;border-width:0 0 4px 4px;transform:rotate(45deg)}
+.halo{position:absolute;border-radius:50%;background:radial-gradient(closest-side,#38bdf855,#7c5cf033 62%,transparent)}
+.ami{position:absolute;display:block;filter:drop-shadow(0 24px 30px rgba(0,0,0,.45))}
+
+body{width:1200px;height:630px;position:relative;overflow:hidden;background:radial-gradient(900px 520px at 15% 0%,#16224a,#0b1226 55%,#080c18)}
+.logo{position:absolute;left:80px;top:56px;width:76px;height:76px}.logo svg{width:100%;height:100%}
+.k{position:absolute;left:176px;top:78px;font-size:20px;letter-spacing:.18em;font-weight:700;color:#38bdf8}
+h1{position:absolute;left:80px;top:176px;font-size:70px;line-height:1.1;font-weight:700;white-space:nowrap}
+h2{position:absolute;left:80px;top:268px;font-size:42px;font-weight:700}
+.d{position:absolute;left:80px;top:350px;width:640px;font-size:26px;line-height:1.45;color:#b4bedb}.d b{color:#fff}
+.eco{position:absolute;left:80px;bottom:48px;display:flex;gap:12px;font-size:19px}
+.eco span{padding:8px 16px;border:1px solid #2b3a66;border-radius:99px;background:#101a38;color:#cdd6f0}.eco span.on{background:linear-gradient(90deg,#1e6fa8,#5b46c9);border-color:transparent;color:#fff;font-weight:700}
+.url{position:absolute;left:80px;bottom:112px;font-size:26px;color:#38bdf8;font-weight:700}</style>
+<div class=halo style="left:735px;top:110px;width:470px;height:520px"></div>
+<img class=ami src="ami/ami-wave.png" style="left:790px;top:118px;width:384px;height:480px">
+<div class=bub style="left:772px;top:30px;width:392px;padding:12px 16px;font-size:25px;line-height:1.25;text-align:center">Chào bạn, mình là <span style="color:#1e6fa8">Ami</span>!<style>.bub::after{left:200px;bottom:-15px;transform:rotate(-45deg)}</style></div>
 <div class=logo><svg xmlns="http://www.w3.org/2000/svg" viewBox="0 0 48 48"><defs><linearGradient id="g" x1="0" y1="0" x2="1" y2="1"><stop offset="0" stop-color="#38bdf8"/><stop offset="1" stop-color="#7c5cf0"/></linearGradient></defs><rect x="1" y="1" width="46" height="46" rx="12" fill="url(#g)"/><path d="M5.5 40.5L24 6L42.5 40.5M9.57 32.91L38.43 32.91" fill="none" stroke="#fff" stroke-opacity="0.45" stroke-width="2.3" stroke-linecap="round" stroke-linejoin="round"/><path d="M11.79 40.5L24 17.73L36.21 40.5M14.48 35.49L33.52 35.49" fill="none" stroke="#fff" stroke-opacity="0.75" stroke-width="2.7" stroke-linecap="round" stroke-linejoin="round"/><path fill-rule="evenodd" fill="#fff" d="M17.71 40.5L24 28.77L30.29 40.5ZM21.86 40.5L24 33.7L26.14 40.5Z"/></svg></div><div class=k>VIỆT / ENGLISH · FOR RESEARCHERS</div>
 <h1>Trợ lý học thuật</h1><h2 class=grad>AI Academic Agent 1.0</h2>
-<p class=d>Đọc tài liệu · Chấm mức độ phù hợp · Tóm tắt · Trích dẫn theo chuẩn quốc tế</p>
-<div class=eco><span class=on>Trợ lý học thuật</span><span>EduFind</span><span>Trợ lý văn thư</span></div><div class=url>aaa.isavietnam.app</div>
+<p class=d><b>Ami</b> đọc tài liệu, chấm mức độ phù hợp và trích dẫn theo chuẩn quốc tế cùng bạn.</p>
+<div class=url>aaa.isavietnam.app</div>
+<div class=eco><span class=on>Trợ lý học thuật</span><span>EduFind</span><span>Trợ lý văn thư</span></div>

diff --git a/marketing/social-1x1/NOI-DUNG-DANG-BAI.md b/marketing/social-1x1/NOI-DUNG-DANG-BAI.md
@@ -1,6 +1,6 @@
 # Bộ 9 ảnh vuông 1:1 (1620×1620) và nội dung đăng mạng xã hội
 
-Ảnh bìa `00-bia.png` (tên và logo phần mềm, mã QR, thông tin tác giả) đăng đầu tiên, tiếp theo là 8 ảnh bước. Đăng theo thứ tự 0 → 8 (dạng nhiều ảnh trượt ngang trên Facebook, Instagram, LinkedIn). Ảnh dùng chữ tiếng Việt. Dữ liệu trong ảnh là dữ liệu minh họa.
+Ảnh bìa `00-bia.png` (tên và logo phần mềm, mã QR, thông tin tác giả) đăng đầu tiên, tiếp theo là 8 ảnh bước. Đăng theo thứ tự 0 → 8 (dạng nhiều ảnh trượt ngang trên Facebook, Instagram, LinkedIn). Ảnh dùng chữ tiếng Việt, mỗi ảnh bước có Ami giải thích ngắn gọn. Dữ liệu trong ảnh là dữ liệu minh họa.
 
 | # | Tệp | Nội dung |
 |---|-----|----------|
@@ -18,7 +18,7 @@
 
 📚 **Trợ lý học thuật | AI Academic Agent 1.0** đã sẵn sàng.
 
-Đọc một bài báo dài chỉ để biết nó có dùng được cho đề tài của mình hay không là việc tốn nhiều giờ. Ứng dụng này làm bước sàng lọc đó trong vài phút. Lướt ảnh để xem 8 bước:
+Gặp Ami, trợ lý robot AI luôn đồng hành cùng hành trình học thuật của bạn. Đọc một bài báo dài chỉ để biết nó có dùng được cho đề tài của mình hay không là việc tốn nhiều giờ. Ứng dụng này làm bước sàng lọc đó trong vài phút. Lướt ảnh để xem 8 bước:
 
 1⃣ Đăng ký miễn phí, mỗi ngày có 1 lượt phân tích
 2⃣ Dán tóm tắt đề tài (Abstract)

diff --git a/marketing/post-song-ngu.md b/marketing/post-song-ngu.md
@@ -8,7 +8,7 @@
 
 📚 **Trợ lý học thuật | AI Academic Agent 1.0** đã sẵn sàng.
 
-Đọc một bài báo dài chỉ để biết nó có dùng được cho đề tài của mình hay không là việc tốn nhiều giờ. Ứng dụng này làm bước sàng lọc đó trong vài phút:
+Gặp Ami, trợ lý robot AI đồng hành cùng hành trình học thuật của bạn. Đọc một bài báo dài chỉ để biết nó có dùng được cho đề tài của mình hay không là việc tốn nhiều giờ. Ứng dụng này làm bước sàng lọc đó trong vài phút:
 
 ✅ Đọc tài liệu PDF, DOC, DOCX (kể cả bản scan nhờ OCR)
 ✅ Chấm mức độ phù hợp từ 0 đến 100 so với tóm tắt đề tài của bạn
